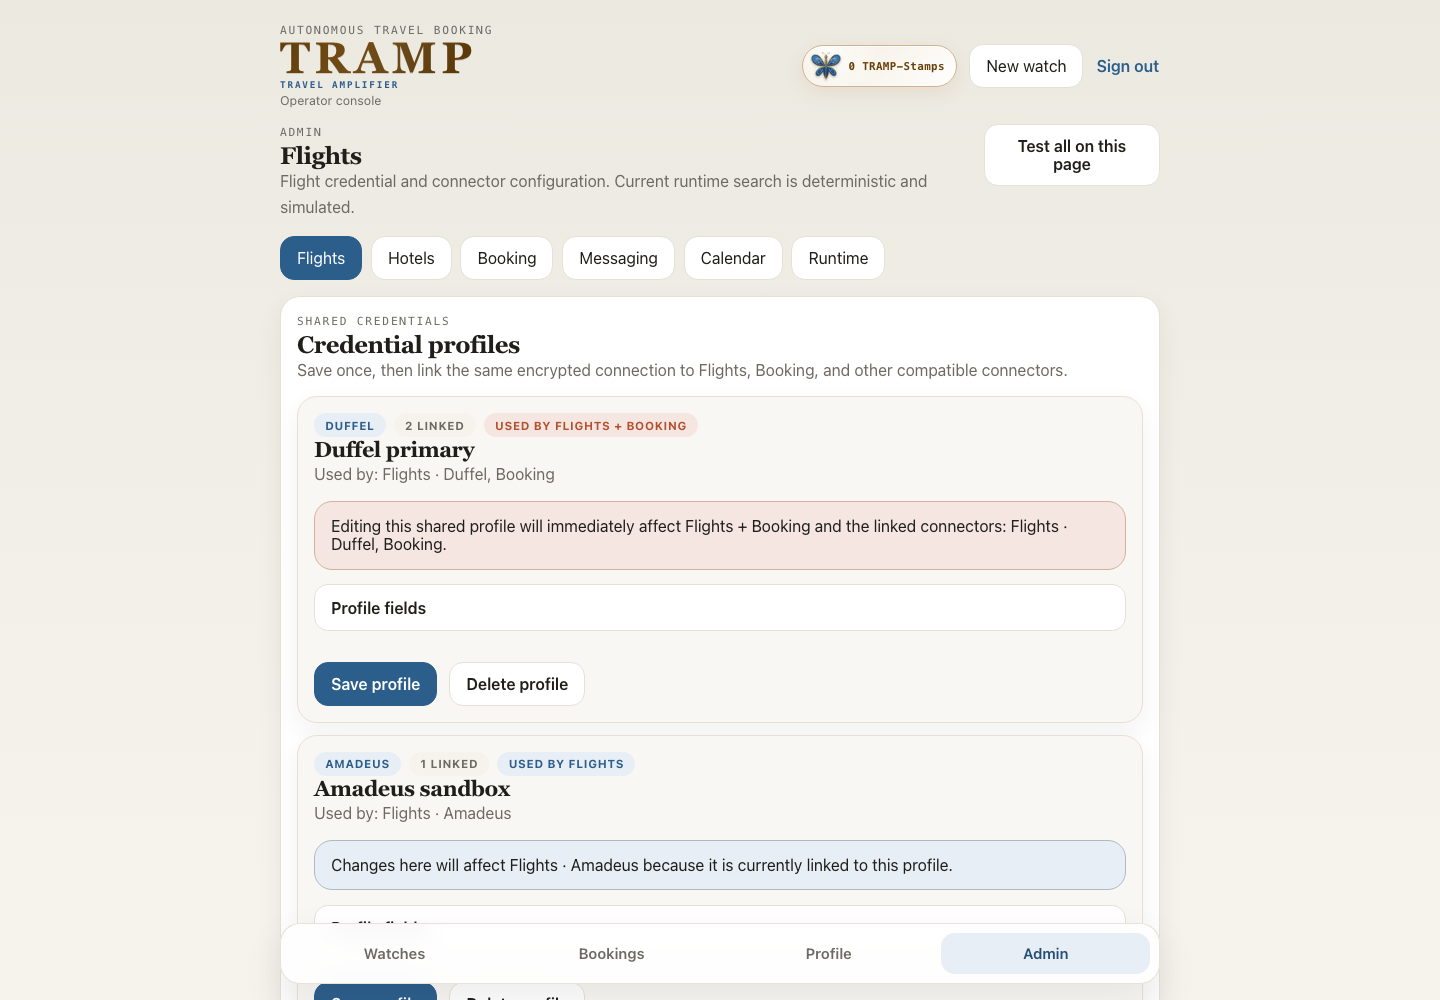
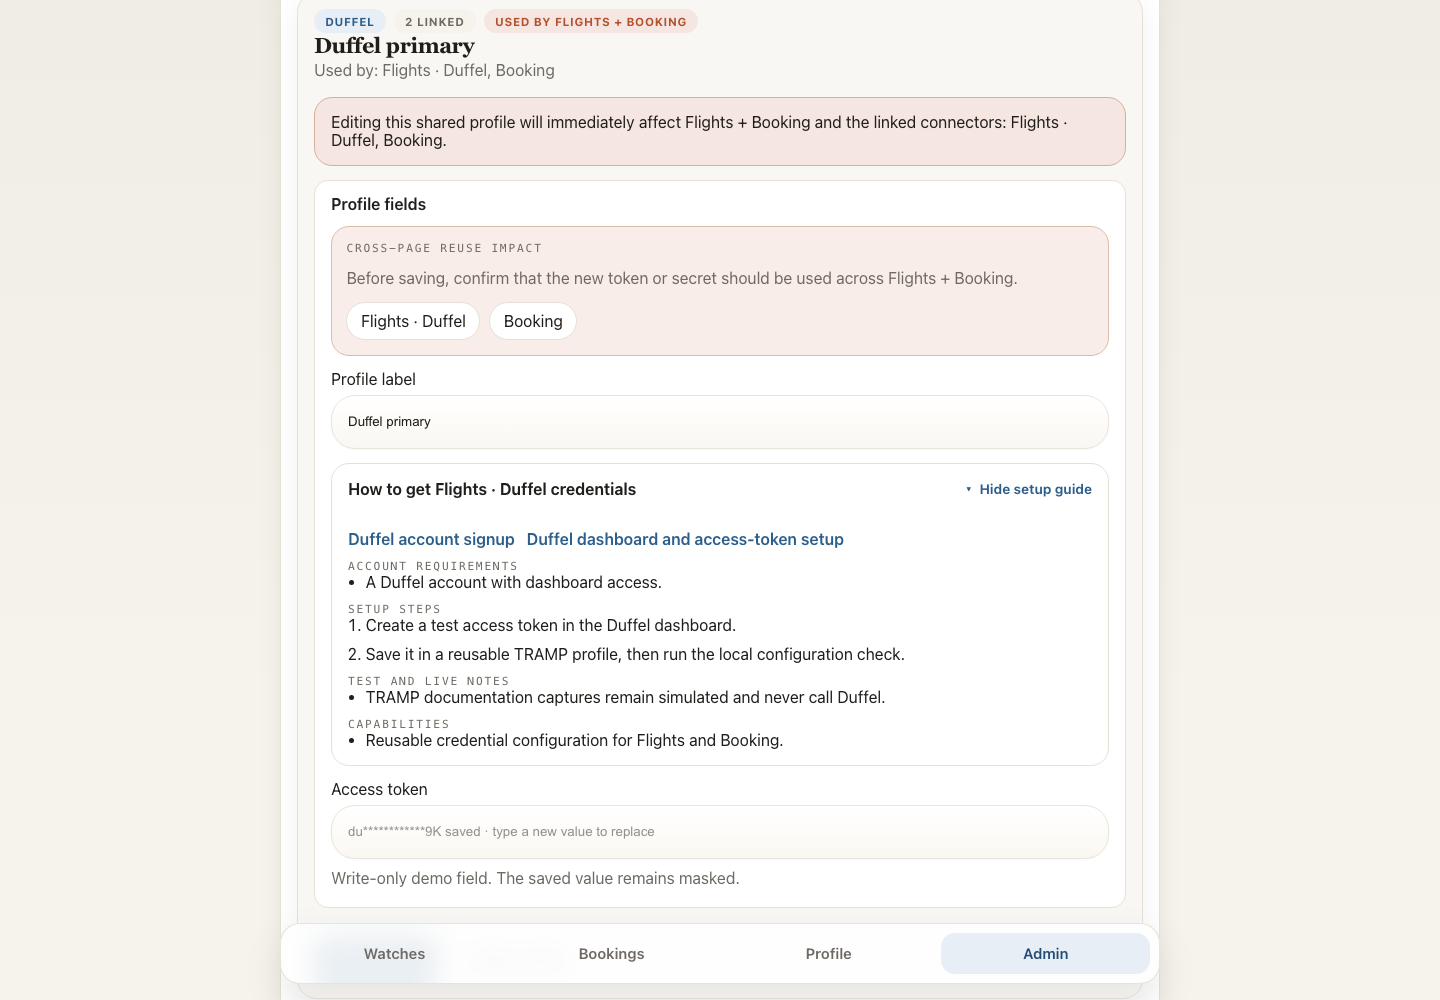
Polish demo documentation captures
Expand credential guidance for the Admin capture and seed representative demo travelers and a saved household group without exposing secrets.

Changed region(s): [[0.1875, 0.0, 0.8125, 0.899], [0.2188, 0.961, 0.7812, 1.0]]

diff --git a/frontend/src/api/mockData.ts b/frontend/src/api/mockData.ts
@@ -387,7 +387,48 @@ export const integrationData: IntegrationData = {
       featureFlags: [
         { label: "Live search shape", enabled: false },
       ],
-      credentialFields: [],
+      guide: {
+        links: [
+          {
+            label: "Amadeus developer portal registration",
+            url: "https://developers.amadeus.com/",
+          },
+          {
+            label: "Amadeus quick start and application creation",
+            url:
+              "https://developers.amadeus.com/self-service/apis-docs/guides/developer-guides/quick-start/",
+          },
+        ],
+        accountRequirements: [
+          "An Amadeus for Developers account.",
+        ],
+        steps: [
+          "Create a Self-Service application and copy its test credentials.",
+          "Save them in a reusable TRAMP profile, then run the local configuration check.",
+        ],
+        environmentNotes: [
+          "TRAMP documentation captures remain simulated and never call Amadeus.",
+        ],
+        enables: [
+          "Reusable credential configuration for Flights and Booking.",
+        ],
+      },
+      credentialFields: [
+        {
+          key: "client_id",
+          label: "Client ID",
+          placeholder: "Amadeus API key",
+          helpText: "Write-only demo field. The saved value remains masked.",
+          sensitive: true,
+        },
+        {
+          key: "client_secret",
+          label: "Client secret",
+          placeholder: "Amadeus API secret",
+          helpText: "Write-only demo field. The saved value remains masked.",
+          sensitive: true,
+        },
+      ],
       featureFlagDefinitions: [],
       detail:
         "Amadeus credentials are configured locally. Current flight search remains deterministic and simulated.",
@@ -410,7 +451,40 @@ export const integrationData: IntegrationData = {
       featureFlags: [
         { label: "Live search shape", enabled: false },
       ],
-      credentialFields: [],
+      guide: {
+        links: [
+          {
+            label: "Duffel account signup",
+            url: "https://duffel.com/",
+          },
+          {
+            label: "Duffel dashboard and access-token setup",
+            url: "https://duffel.com/guides/getting-started",
+          },
+        ],
+        accountRequirements: [
+          "A Duffel account with dashboard access.",
+        ],
+        steps: [
+          "Create a test access token in the Duffel dashboard.",
+          "Save it in a reusable TRAMP profile, then run the local configuration check.",
+        ],
+        environmentNotes: [
+          "TRAMP documentation captures remain simulated and never call Duffel.",
+        ],
+        enables: [
+          "Reusable credential configuration for Flights and Booking.",
+        ],
+      },
+      credentialFields: [
+        {
+          key: "access_token",
+          label: "Access token",
+          placeholder: "duffel_test_...",
+          helpText: "Write-only demo field. The saved value remains masked.",
+          sensitive: true,
+        },
+      ],
       featureFlagDefinitions: [],
       detail:
         "Duffel credentials are configured locally. Current flight search remains deterministic and simulated.",

diff --git a/frontend/src/api/travelWatchApi.ts b/frontend/src/api/travelWatchApi.ts
@@ -2238,8 +2238,93 @@ function mockProfileWorkspace(): ProfileWorkspace {
       billingCountry: "US",
     },
   ];
+  workspace.travelers = [
+    {
+      id: "mock-traveler-self",
+      displayName: "Demo Traveler",
+      relationship: "self",
+      legalFirstName: "Demo",
+      legalLastName: "Traveler",
+      dob: "1988-04-12",
+      nationality: "US",
+      residencyCountry: "JP",
+      passportNumber: "",
+      passportCountry: "US",
+      passportExpiry: "2031-08-20",
+      knownTravelerNumber: "",
+      redressNumber: "",
+      seatPreference: "window",
+      mealPreference: "vegetarian",
+      loyaltyProgramCode: "FB",
+      loyaltyAccountNumber: "DEMO-FB-001",
+      loyaltyAlliance: "skyteam",
+      loyaltyStatusTier: "Gold",
+      preferredEarningForAlliance: true,
+      loyaltyPrograms: [
+        {
+          programType: "airline",
+          programCode: "FB",
+          accountNumber: "DEMO-FB-001",
+          alliance: "skyteam",
+          statusTier: "Gold",
+          isFavorite: true,
+        },
+      ],
+      accessibilityNeeds: "",
+      infantOnLap: false,
+    },
+    {
+      id: "mock-traveler-partner",
+      displayName: "Demo Partner",
+      relationship: "partner",
+      legalFirstName: "Demo",
+      legalLastName: "Partner",
+      dob: "1990-09-03",
+      nationality: "JP",
+      residencyCountry: "JP",
+      passportNumber: "",
+      passportCountry: "JP",
+      passportExpiry: "2030-11-14",
+      knownTravelerNumber: "",
+      redressNumber: "",
+      seatPreference: "aisle",
+      mealPreference: "",
+      loyaltyProgramCode: "NH",
+      loyaltyAccountNumber: "DEMO-NH-002",
+      loyaltyAlliance: "star",
+      loyaltyStatusTier: "",
+      preferredEarningForAlliance: false,
+      loyaltyPrograms: [
+        {
+          programType: "airline",
+          programCode: "NH",
+          accountNumber: "DEMO-NH-002",
+          alliance: "star",
+          statusTier: "",
+          isFavorite: false,
+        },
+      ],
+      accessibilityNeeds: "",
+      infantOnLap: false,
+    },
+  ];
+  workspace.travelerGroupOptions = [
+    {
+      id: "mock-group-partners",
+      name: "Demo travelers",
+      travelerIds: ["mock-traveler-self", "mock-traveler-partner"],
+    },
+  ];
+  workspace.travelerGroups = ["Demo travelers"];
+  workspace.householdSummary.travelerCount = workspace.travelers.length;
+  workspace.householdSummary.travelerGroupCount =
+    workspace.travelerGroupOptions.length;
   workspace.householdSummary.paymentMethodCount = 1;
   workspace.householdSummary.hasPaymentMethod = true;
+  workspace.householdSummary.hasSelfTraveler = true;
+  workspace.householdSummary.passportGapCount = 0;
+  workspace.householdSummary.setupWarnings = [];
+  workspace.householdSummary.readinessLabel = "Household ready";
   return workspace;
 }
 

diff --git a/frontend/src/api/travelWatchApi.mock.test.ts b/frontend/src/api/travelWatchApi.mock.test.ts
@@ -24,6 +24,32 @@ describe("travelWatchApi mock payment and booking isolation", () => {
         last4: expect.stringMatching(/^\d{4}$/),
       }),
     ]);
+    expect(workspace.travelers).toEqual([
+      expect.objectContaining({
+        id: "mock-traveler-self",
+        displayName: "Demo Traveler",
+        relationship: "self",
+      }),
+      expect.objectContaining({
+        id: "mock-traveler-partner",
+        displayName: "Demo Partner",
+        relationship: "partner",
+      }),
+    ]);
+    expect(workspace.travelerGroupOptions).toEqual([
+      {
+        id: "mock-group-partners",
+        name: "Demo travelers",
+        travelerIds: ["mock-traveler-self", "mock-traveler-partner"],
+      },
+    ]);
+    expect(workspace.householdSummary).toEqual(
+      expect.objectContaining({
+        travelerCount: 2,
+        travelerGroupCount: 1,
+        hasSelfTraveler: true,
+      }),
+    );
 
     await travelWatchApi.savePaymentMethod({
       label: "Demo backup",
